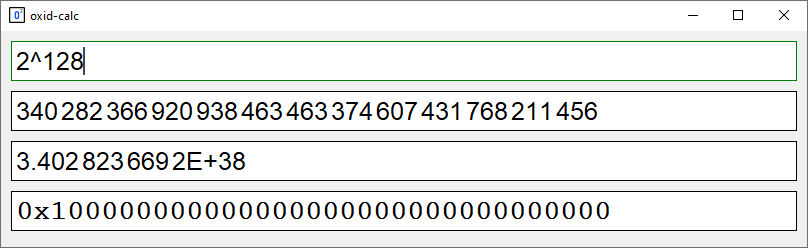
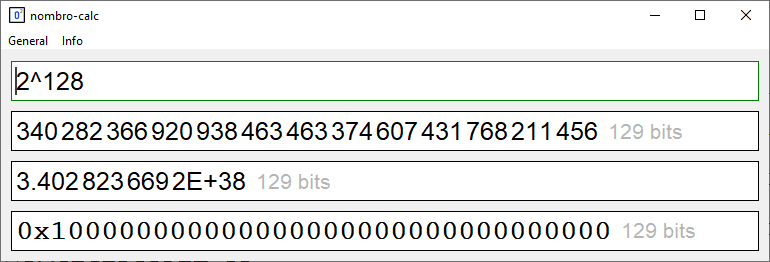
rename

diff --git a/source/calc/calc.cpp b/source/calc/calc.cpp
@@ -13,7 +13,7 @@
 #pragma comment(lib, "Winmm.lib")
 
 #define MAX_LOADSTRING 100
-#define WND_CLASS_STR L"OXID_CALC_WC"
+#define WND_CLASS_STR L"NOMBRO_CALC_WC"
 
 // Global Variables:
 HINSTANCE hInst;                                // current instance
@@ -163,7 +163,7 @@ bool SystemWindowView::create_desktop_window(const wchar_t* caption, const int2&
 
 bool MainView::create()
 {
-    if (!create_desktop_window(L"oxid-calc", int4(cfg.get_wposx(), cfg.get_wposy(), cfg.get_wposx()+ cfg.get_wwidth(), cfg.get_wposy()+ cfg.get_wheight()), cfg.get_wmax()))
+    if (!create_desktop_window(L"nombro-calc", int4(cfg.get_wposx(), cfg.get_wposy(), cfg.get_wposx()+ cfg.get_wwidth(), cfg.get_wposy()+ cfg.get_wheight()), cfg.get_wmax()))
         return false;
 
     SetTimer(hwnd, 3437, 500, nullptr);

diff --git a/source/calc/about.cpp b/source/calc/about.cpp
@@ -3,14 +3,14 @@
 
 AboutView::AboutView()
 {
-	create_desktop_window(L"About oxid-calc", int2(400,300));
+	create_desktop_window(L"About nombro-calc", int2(400,300));
 }
 
 /*virtual*/ void AboutView::created()
 {
 	Layout l;
-	add_view(new LabelView(TRS("oxid-calc v.0.1")), l.vnext(20));
-	add_view(new LinkLabelView(WSTR("https://github.com/oxygene-user/oxid-calc"), TRS("source code")), l.vnext(20));
+	add_view(new LabelView(TRS("nombro-calc v.0.2")), l.vnext(20));
+	add_view(new LinkLabelView(WSTR("https://github.com/oxygene-user/nombro-calc"), TRS("source code")), l.vnext(20));
 	ok = add_view(new ButtonView(TRS("Ok")), l.vnext(30));
 	
 	ajust_size(l);

diff --git a/README.md b/README.md
@@ -1,4 +1,4 @@
-# oxid-calc
+# nombro-calc
 Powerful programmer's calculator
 
 - Big numbers with unlimited precission
@@ -17,7 +17,7 @@ Powerful programmer's calculator
 - constant pi (pi), constant e (e)
 
 # screenshots
-![Screen 1](https://github.com/oxygene-user/oxid-calc/blob/main/screens/screen-1.png?raw=true)
+![Screen 1](https://github.com/oxygene-user/nombro-calc/blob/main/screens/screen-1.png?raw=true)
 
 
 # build
